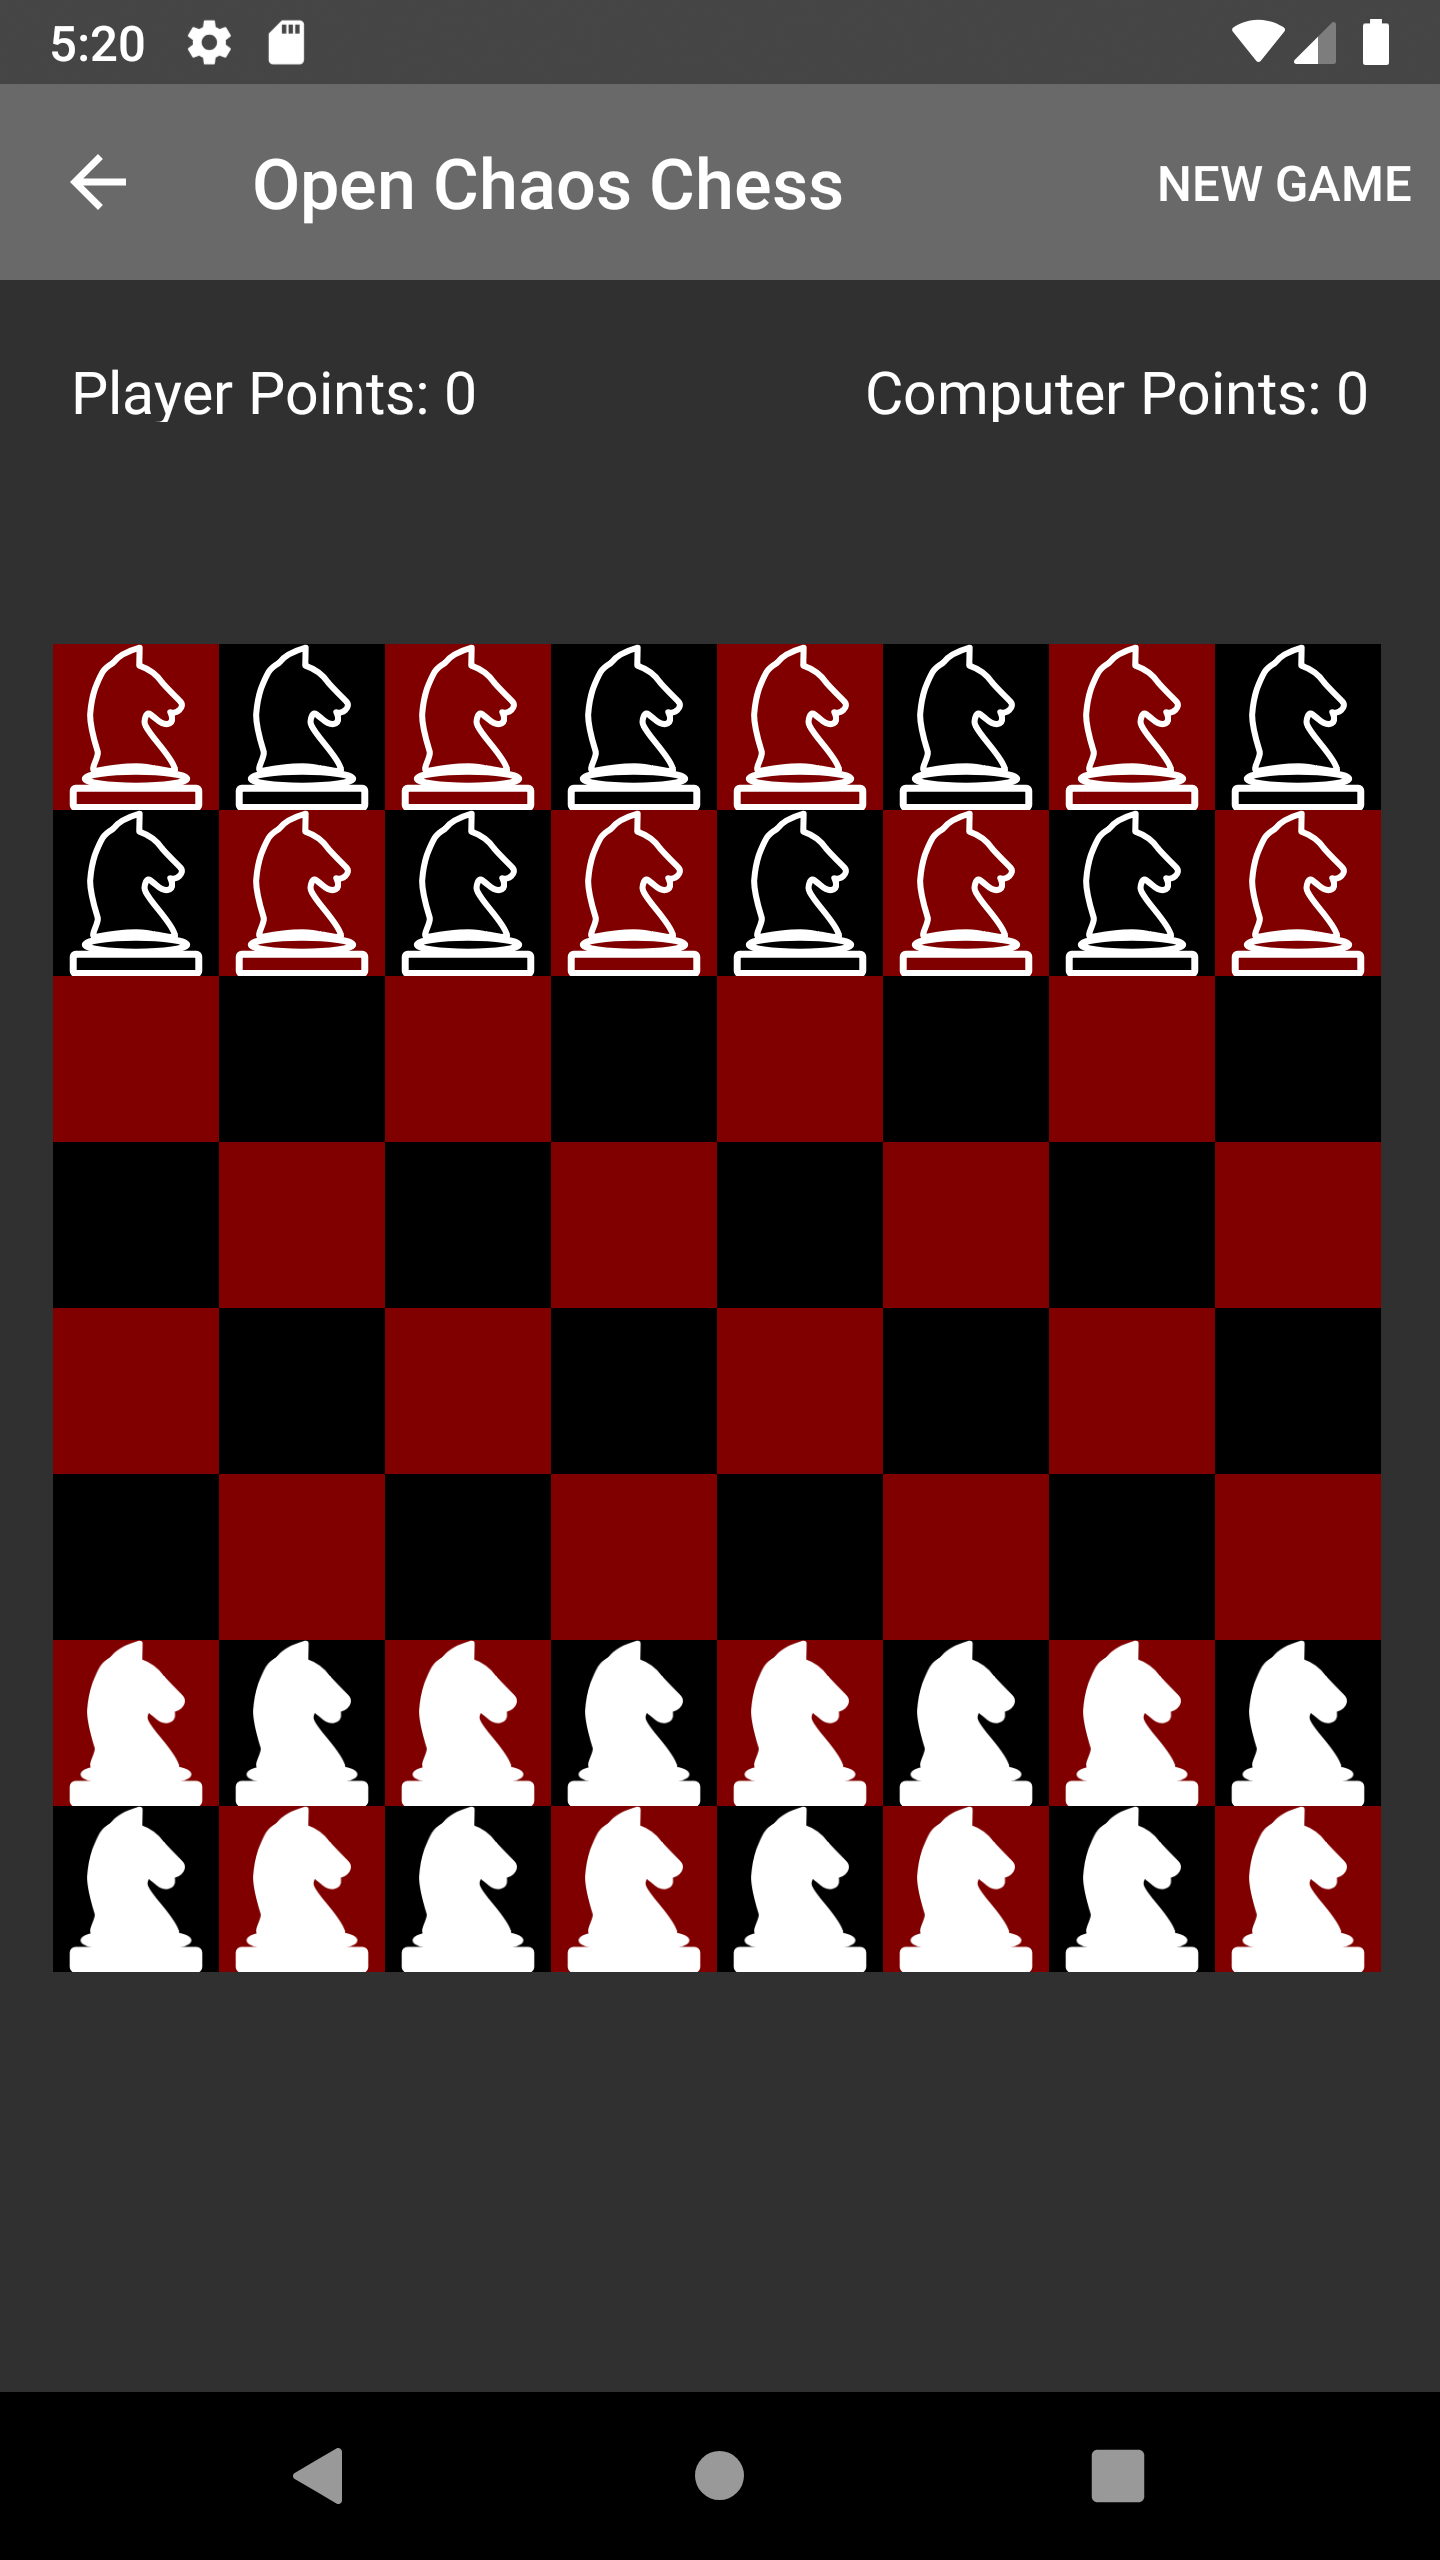
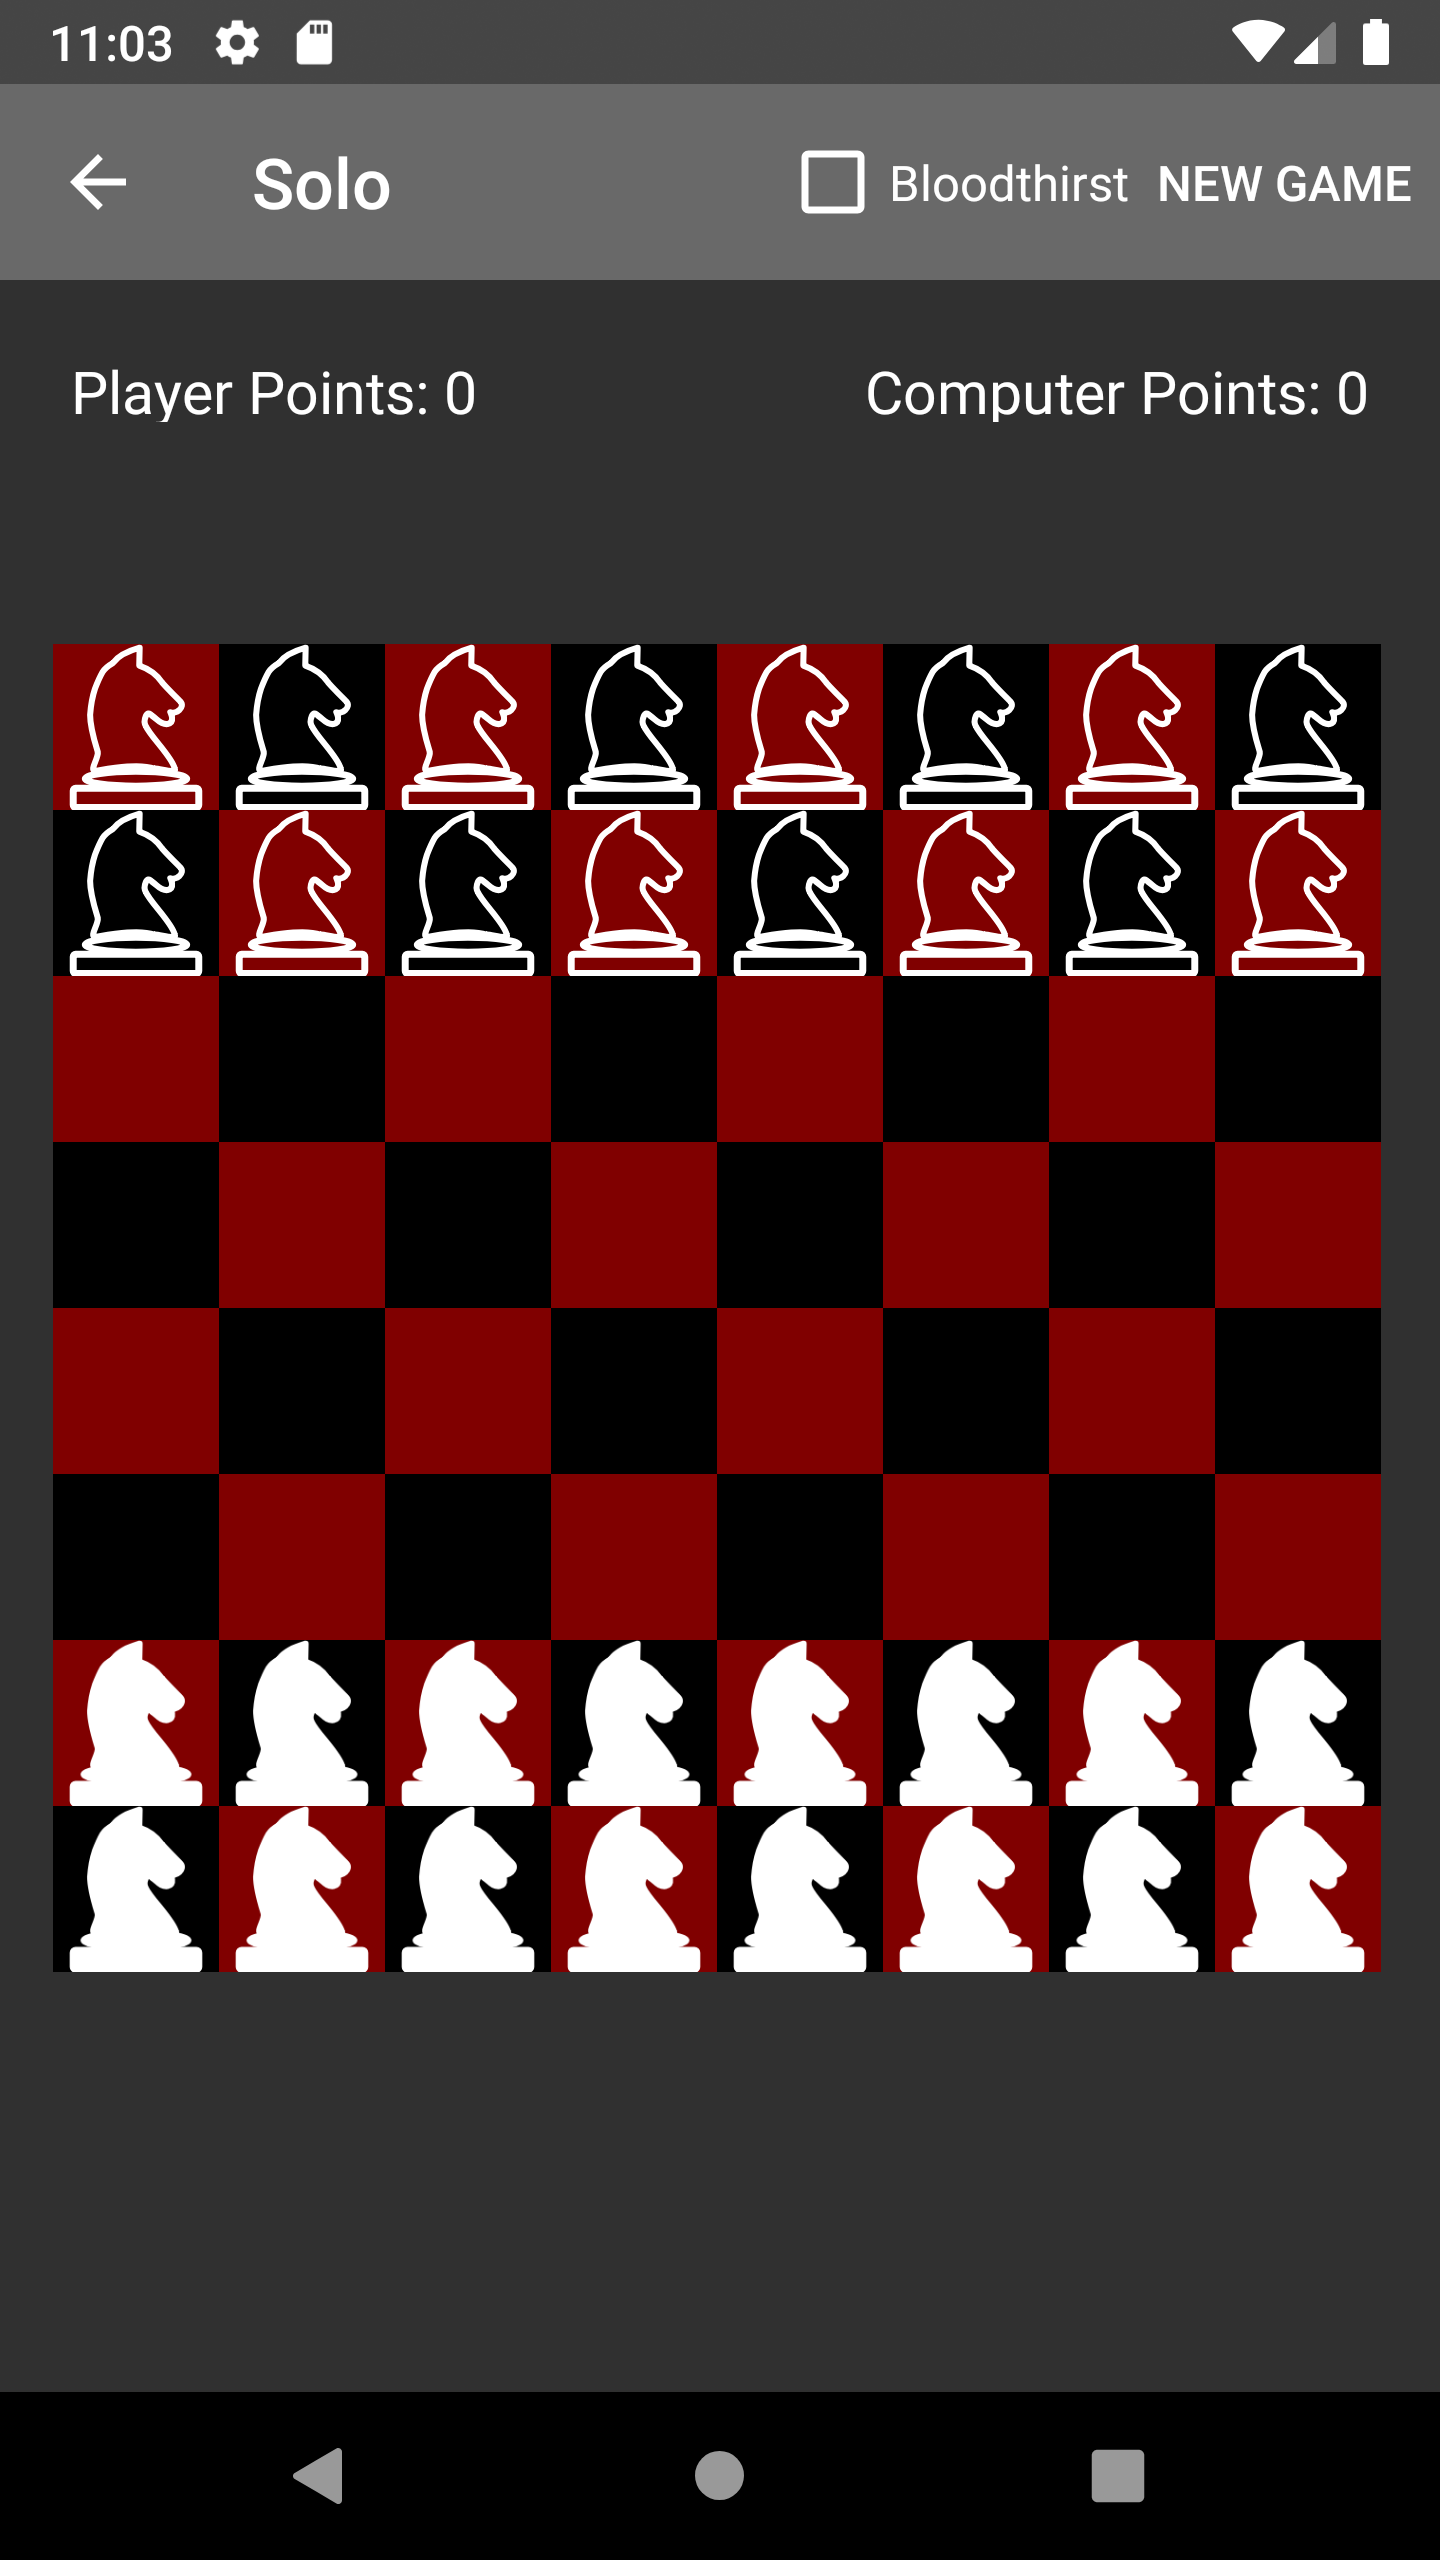
Increment to v1.6.2
Update documentation and contributors
Update F-Droid description
Update screenshots

Changed region(s): [[0.1875, 0.0625, 0.7812, 0.0938], [0.0312, 0.0, 0.25, 0.0312]]

diff --git a/README.md b/README.md
@@ -14,10 +14,15 @@
 
 
 ## About
-Open Chaos Chess is a free and open source version of [Chaos Chess](https://play.google.com/store/apps/details?id=dev.corruptedark.chaoschess), stripped of Google Play Services. Chaos Chess is a variation of chess where you can pick the piece that moves, but the moves are random. As such, you no longer win by checkmates. Instead, you win by eliminating your opponent's pieces. Have fun, and may the RNG be ever in your favor. 
-
+Open Chaos Chess is a free and open source version of [Chaos Chess](https://play.google.com/store/apps/details?id=dev.corruptedark.chaoschess), stripped of Google Play Services. Chaos Chess is a variation of chess where you can pick the piece that moves, but the moves are random. As such, you no longer win by checkmates. Instead, you win by eliminating your opponent's pieces. Have fun, and may the RNG be ever in your favor.
 
 All future development for Chaos Chess will be in this project.
+
+### Permissions
+`ACCESS_FINE_LOCATION` is only used as a mandatory prerequisite for Bluetooth functionality. No location data is stored or sent anywhere by this application.
+
+`READ_EXTERNAL_STORAGE` and `WRITE_EXTERNAL_STORAGE` are only used for import/export of color preferences and achievements.
+
 
 ## Current Status
 As of the most recent commit to the master branch, achievements and single player games are working. However, since it is not using any online services, the progress is only saved locally and is lost if app data is wiped or if a player installs on a new device. Multiplayer is now working over Bluetooth for the most part. Pieces are now animated on move. Bloodthirst feature has been implemented. While Bloodthirst is active, pieces will always attack if possible.
@@ -25,11 +30,11 @@ As of the most recent commit to the master branch, achievements and single playe
 ----
 
 ## Screenshots
-<img src="https://i.imgur.com/somueei.png" alt="Main menu" width="200" />
-<img src="https://i.imgur.com/MKLKXqn.png" alt="Normal Game Start" width="200" />
-<img src="https://i.imgur.com/Nij5ZU0.png" alt="Normal Game Playing" width="200" />
-<img src="https://i.imgur.com/NRuWsUf.png" alt="Knights Only Start" width="200" />
-<img src="https://i.imgur.com/HZlM2rV.png" alt="Knights Only Playing" width="200" />
+<img src="fastlane/metadata/android/en-US/images/phoneScreenshots/1.png" alt="Main menu" width="200" />
+<img src="fastlane/metadata/android/en-US/images/phoneScreenshots/2.png" alt="Normal Game Start" width="200" />
+<img src="fastlane/metadata/android/en-US/images/phoneScreenshots/3.png" alt="Normal Game Playing" width="200" />
+<img src="fastlane/metadata/android/en-US/images/phoneScreenshots/4.png" alt="Knights Only Start" width="200" />
+<img src="fastlane/metadata/android/en-US/images/phoneScreenshots/5.png" alt="Knights Only Playing" width="200" />
 
 ----
 
@@ -42,6 +47,10 @@ As of the most recent commit to the master branch, achievements and single playe
 [Lian C. Begett/RedsickleDE](https://github.com/RedsickleDE) - German Translations
 
 [czarkoff](https://github.com/czarkoff) - Suggested idea for feature: Bloodthirst
+
+[itsanogo](https://github.com/itsanogo) - Suggested Bloodthirst by default toggle
+
+[Gitoffthelawn](https://github.com/Gitoffthelawn) - Suggested explanation of location permissions
 
 If you want to contribute, please read [CONTRIBUTING](CONTRIBUTING.md).
 
